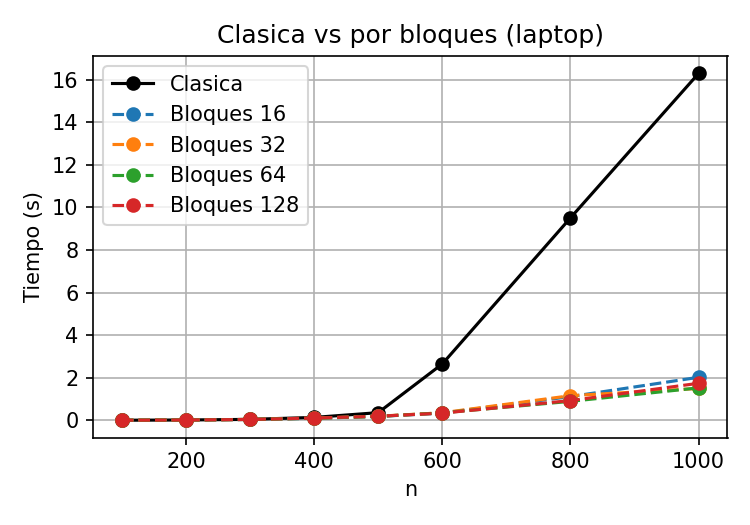
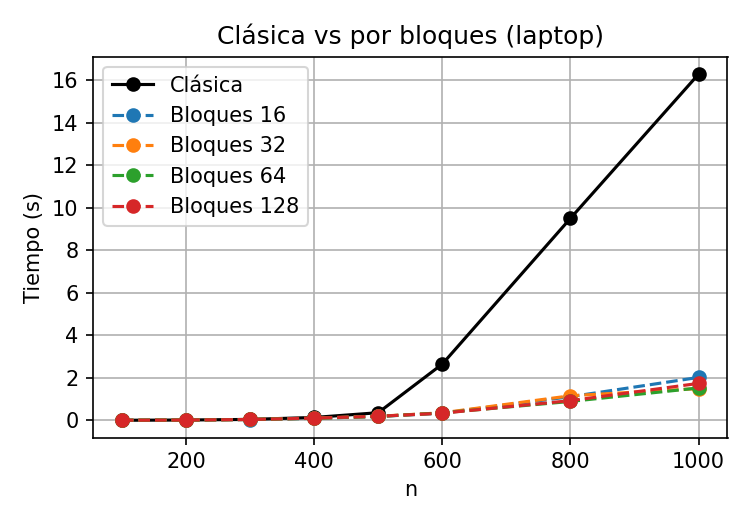
Graficas: speedup por tamanio de bloque, tildes y fallos D1

diff --git a/graficas.py b/graficas.py
@@ -37,35 +37,41 @@ plt.figure(figsize=(5, 3.5))
 plt.plot(c["n"], c["tiempo"], "o-")
 plt.xlabel("n")
 plt.ylabel("Tiempo (s)")
-plt.title("Multiplicacion clasica (" + nombre + ")")
+plt.title("Multiplicación clásica (" + nombre + ")")
 plt.grid(True)
 guardar("clasica.png")
 
 # Ejercicio 3: clasica vs bloques
 b = pd.read_csv(carpeta + "/bloques.csv").groupby(["n", "bloque"]).mean().reset_index()
 plt.figure(figsize=(5, 3.5))
-plt.plot(c["n"], c["tiempo"], "ko-", label="Clasica")
+plt.plot(c["n"], c["tiempo"], "ko-", label="Clásica")
 for tam in sorted(b["bloque"].unique()):
     datos = b[b["bloque"] == tam]
     plt.plot(datos["n"], datos["tiempo"], "o--", label="Bloques " + str(tam))
 plt.xlabel("n")
 plt.ylabel("Tiempo (s)")
-plt.title("Clasica vs por bloques (" + nombre + ")")
+plt.title("Clásica vs por bloques (" + nombre + ")")
 plt.legend()
 plt.grid(True)
 guardar("clasica_vs_bloques.png")
 
 # Ejercicio 3: efecto del tamanio de bloque para el n mas grande
+# Speedup = tiempo de la clasica / tiempo con bloques
 nmax = b["n"].max()
 datos = b[b["n"] == nmax]
 tclasica = c[c["n"] == nmax]["tiempo"].values[0]
+speedup = tclasica / datos["tiempo"]
 plt.figure(figsize=(5, 3.5))
-plt.bar([str(x) for x in datos["bloque"]], datos["tiempo"], label="Bloques")
-plt.axhline(tclasica, color="red", linestyle="--", label="Clasica")
-plt.xlabel("Tamanio de bloque")
-plt.ylabel("Tiempo (s)")
+barras = plt.bar([str(x) for x in datos["bloque"]], speedup)
+for barra, valor in zip(barras, speedup):
+    plt.text(barra.get_x() + barra.get_width() / 2, valor, ("%.1f×" % valor).replace(".", ","),
+             ha="center", va="bottom")
+plt.axhline(1, color="red", linestyle="--", label="Clásica (1×)")
+plt.ylim(0, speedup.max() * 1.35)
+plt.xlabel("Tamaño de bloque")
+plt.ylabel("Veces más rápida que la clásica")
 plt.title("Efecto del bloque, n=" + str(nmax) + " (" + nombre + ")")
-plt.legend()
+plt.legend(loc="upper right")
 guardar("tam_bloque.png")
 
 # Tablas resumen en texto (promedios) para copiar al informe
